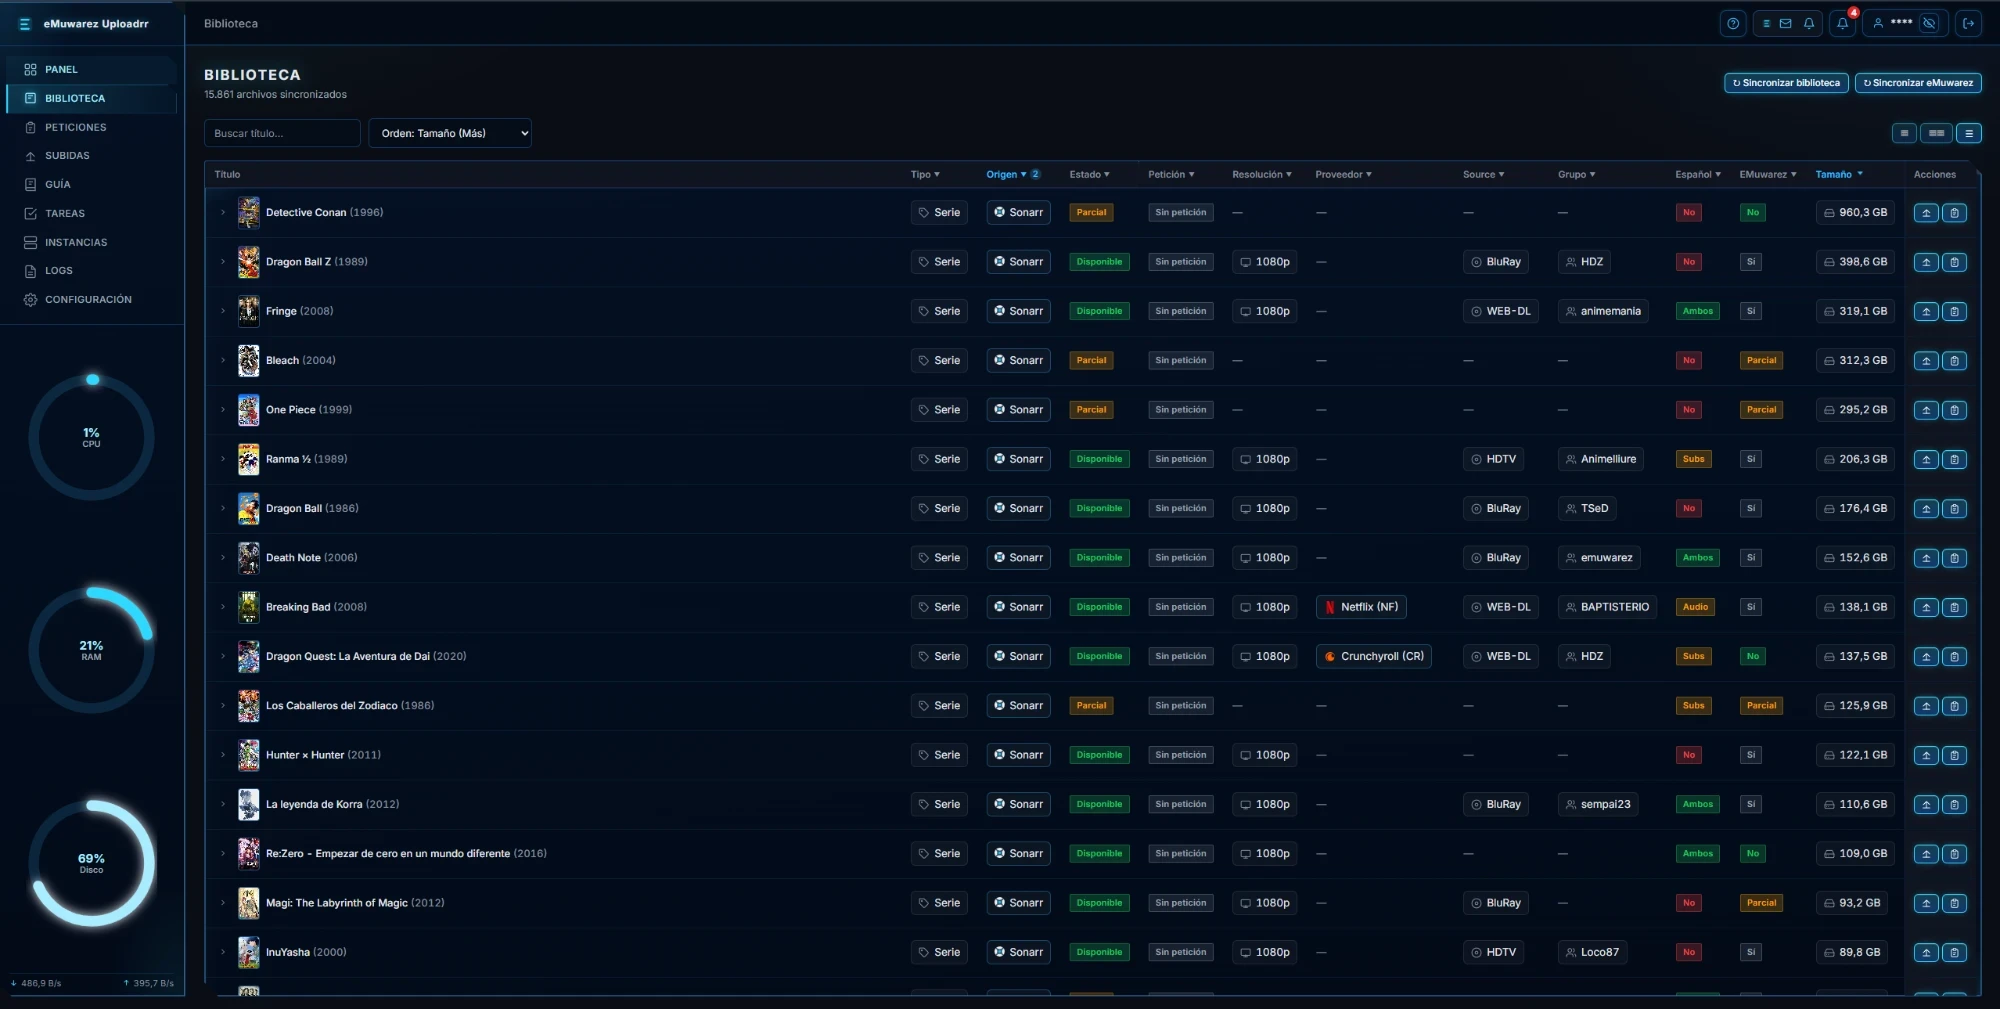
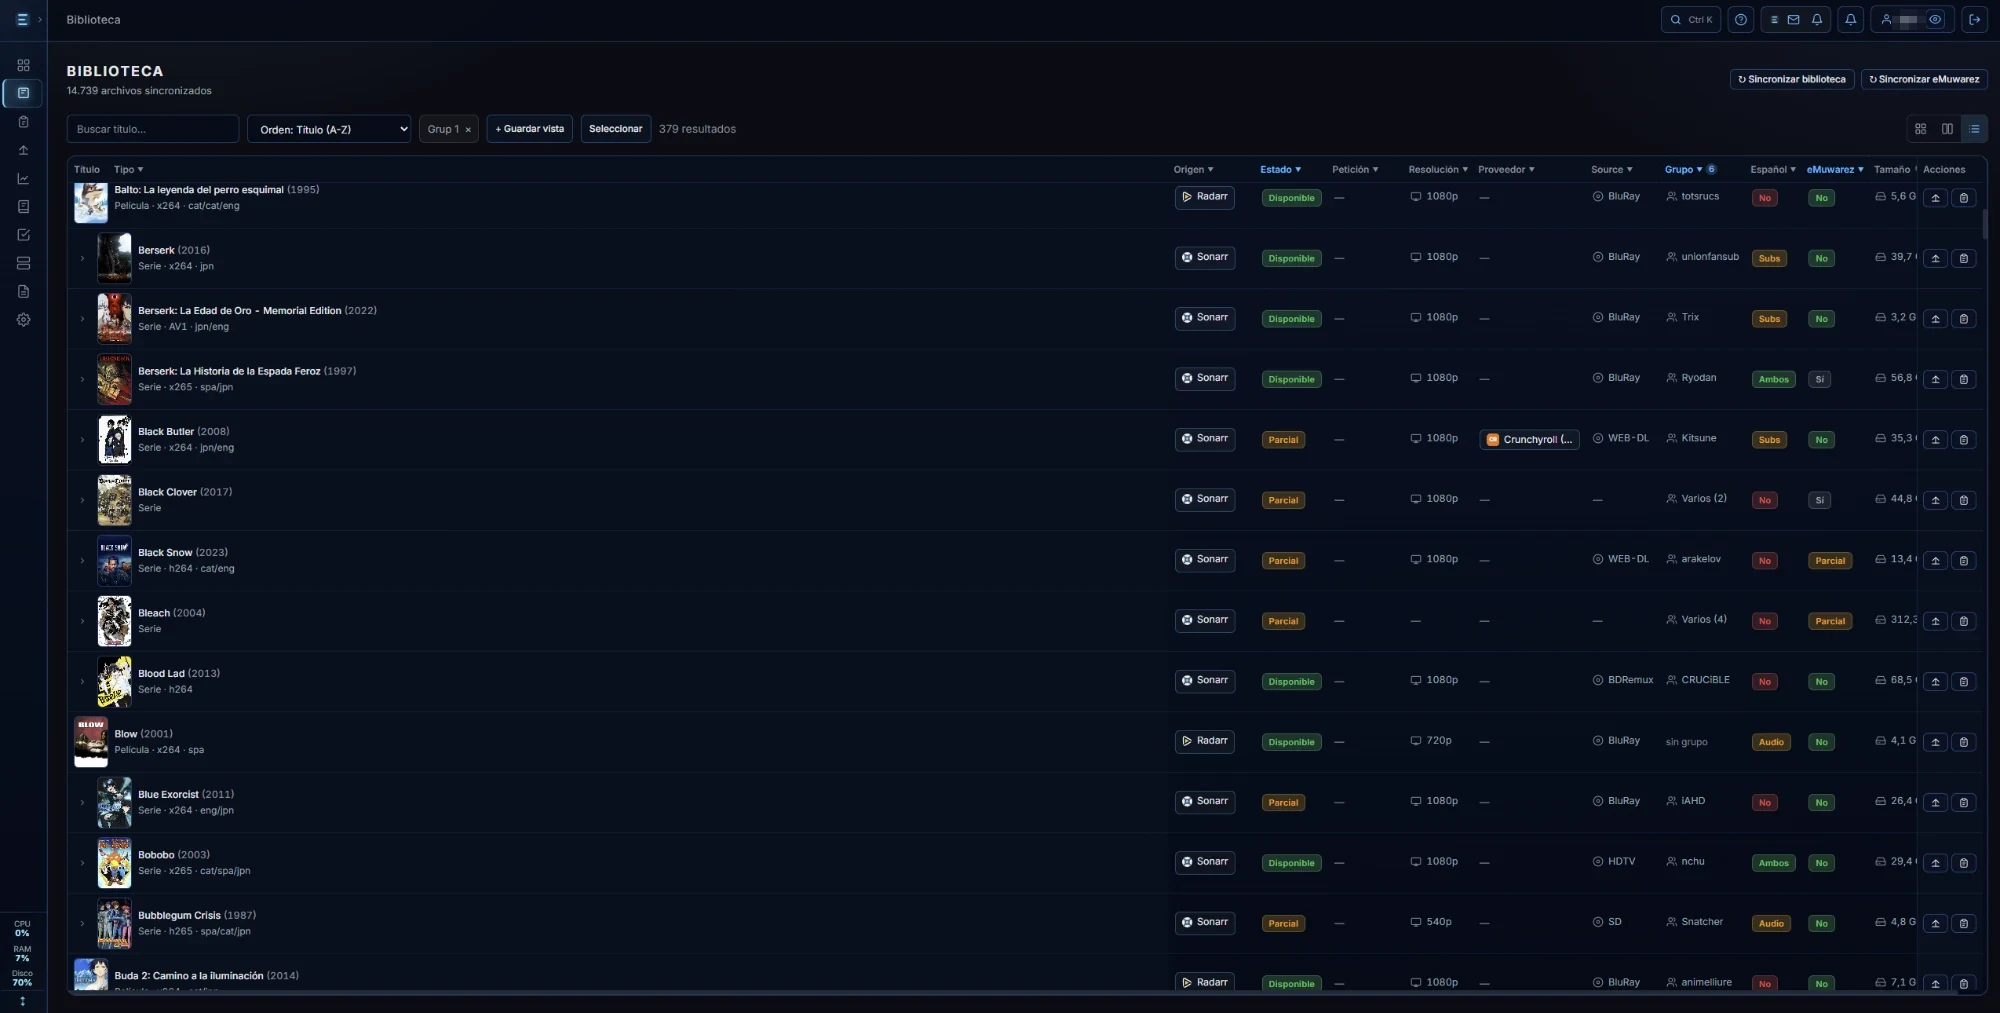
docs: el README enseña la interfaz actual y la versión 1.0.0

diff --git a/README.md b/README.md
@@ -39,7 +39,8 @@ con [Uploadrr-EMU](https://github.com/Kisnov/Uploadrr-EMU), que va dentro de la 
   categoría, petición, pistas y tipo de copia) y lo que ya hay en eMuwarez del mismo contenido, con si lo tuyo es
   mejor, igual o peor, antes de pulsar «Subir». Opcionalmente renombra y reordena las pistas (cuatro modos, apagado
   por defecto). El detalle de una subida terminada abre por el resultado (enlace a eMuwarez, estado de siembra en
-  qBittorrent y dónde se fue el tiempo); si falla, se reintenta desde el paso que falló. Progreso en
+  qBittorrent y dónde se fue el tiempo); si falla, se reintenta desde el paso que falló, y si el torrent ya estaba
+  en eMuwarez pero no llegó a qBittorrent, «Reenviar a qBittorrent» lo vuelve a añadir sin subir nada. Progreso en
   directo, límite de subidas en paralelo y varios grupos de subida guardados para el tag; cada grupo se puede marcar
   como Personal release o anónimo, y el Resumen de la subida deja cambiarlo para esa subida. «Seleccionar» en
   Biblioteca marca varias películas, series o temporadas y «Subir por lotes» las encola de una vez (una serie se
@@ -72,6 +73,10 @@ estrechas el menú lateral es un cajón con botón de hamburguesa.
 **Biblioteca**
 
 ![Biblioteca](docs/capturas/biblioteca.webp)
+
+**Subidas**, con el grupo, la petición, el estado y la siembra de cada una
+
+![Subidas](docs/capturas/subidas.webp)
 
 **Peticiones**
 
@@ -178,7 +183,7 @@ Abre `http://localhost:9494`: el asistente de configuración inicial se abre sol
 - **Rutas permitidas** (Configuración → *Acceso a la biblioteca*) es `/data` por defecto. Si montas la raíz de
   datos en otra ruta, ponla ahí.
 
-![Configuración: cuenta, qBittorrent y acceso a la biblioteca](docs/capturas/configuracion.png)
+![Configuración: eMuwarez, TMDb, qBittorrent, proveedores y otros ajustes](docs/capturas/configuracion.webp)
 
 ### Versiones y volver atrás
 
@@ -187,7 +192,7 @@ La imagen se publica con varias etiquetas, y `EMUWAREZ_UPLOADRR_TAG` (en el `.en
 - `latest` (sin la variable): la última versión publicada. La publica el workflow *Publicar versión*, a mano
   o solo los días impares del mes si hay cambios suficientes, siempre después de pasar los tests (con la entrada `ref`
   publica la versión de un commit anterior); o `scripts/desplegar.sh` desde tu equipo. Se actualiza con `docker compose pull && docker compose up -d`.
-- `0.17.0`: una versión concreta, de las que tienen etiqueta `v0.17.0` en el repo. Sirve para quedarte en ella o
+- `1.0.0`: una versión concreta, de las que tienen etiqueta `v1.0.0` en el repo. Sirve para quedarte en ella o
   para volver atrás si la nueva falla.
 - El sha del commit de una versión: cada versión publicada tiene también esa etiqueta.
 - `edge`: lo más nuevo. Una prueba sin publicar como versión (la punta de `master` con el workflow en *solo
@@ -195,7 +200,7 @@ La imagen se publica con varias etiquetas, y `EMUWAREZ_UPLOADRR_TAG` (en el `.en
   se queda por detrás de `latest`.
 
 ```bash
-EMUWAREZ_UPLOADRR_TAG=0.17.0 docker compose up -d
+EMUWAREZ_UPLOADRR_TAG=1.0.0 docker compose up -d
 ```
 
 Si la versión nueva cambió el esquema de la base, la versión vieja no arranca y lo dice en el registro: la base ya
@@ -245,7 +250,7 @@ la nomenclatura, subir…): ver [`README_CLI_READY.md`](README_CLI_READY.md).
 ## Desarrollo
 
 ```bash
-# Backend, en Linux (hardlinks, mediainfo, mkvtoolnix): ~4200 tests
+# Backend, en Linux (hardlinks, mediainfo, mkvtoolnix): ~4400 tests
 pip install -e ".[web,dev]"
 python -m pytest tests -q -p no:cacheprovider
 

diff --git a/PRODUCT.md b/PRODUCT.md
@@ -51,7 +51,7 @@ trabaja sobre la biblioteca real del NAS sin renombrarla ni reescribirla.
 
 ## Evidence on Hand
 
-- Capturas de la interfaz en `docs/capturas/` (Panel, Biblioteca, Peticiones, pistas, detalle de subida).
+- Capturas de la interfaz en `docs/capturas/` (Panel, Biblioteca, Subidas, Peticiones, pistas, detalle de subida, Configuración).
 - Datos de prueba: `python emuwarez_uploader.py demo seed` siembra una biblioteca ficticia. No hay testimonios, cifras de
   uso ni usuarios externos que citar.
 
